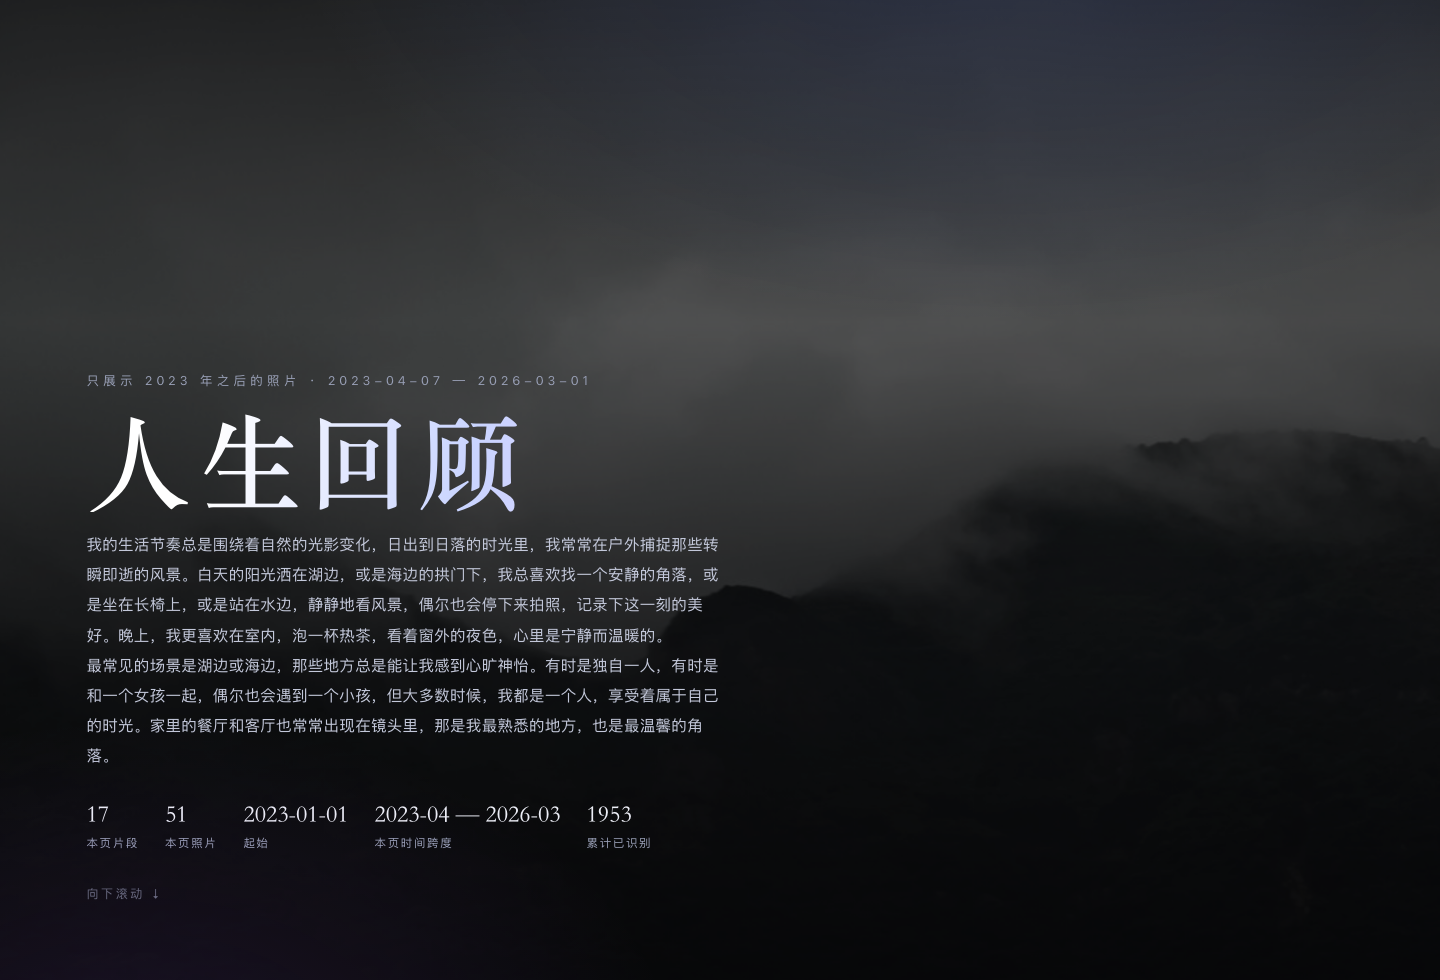
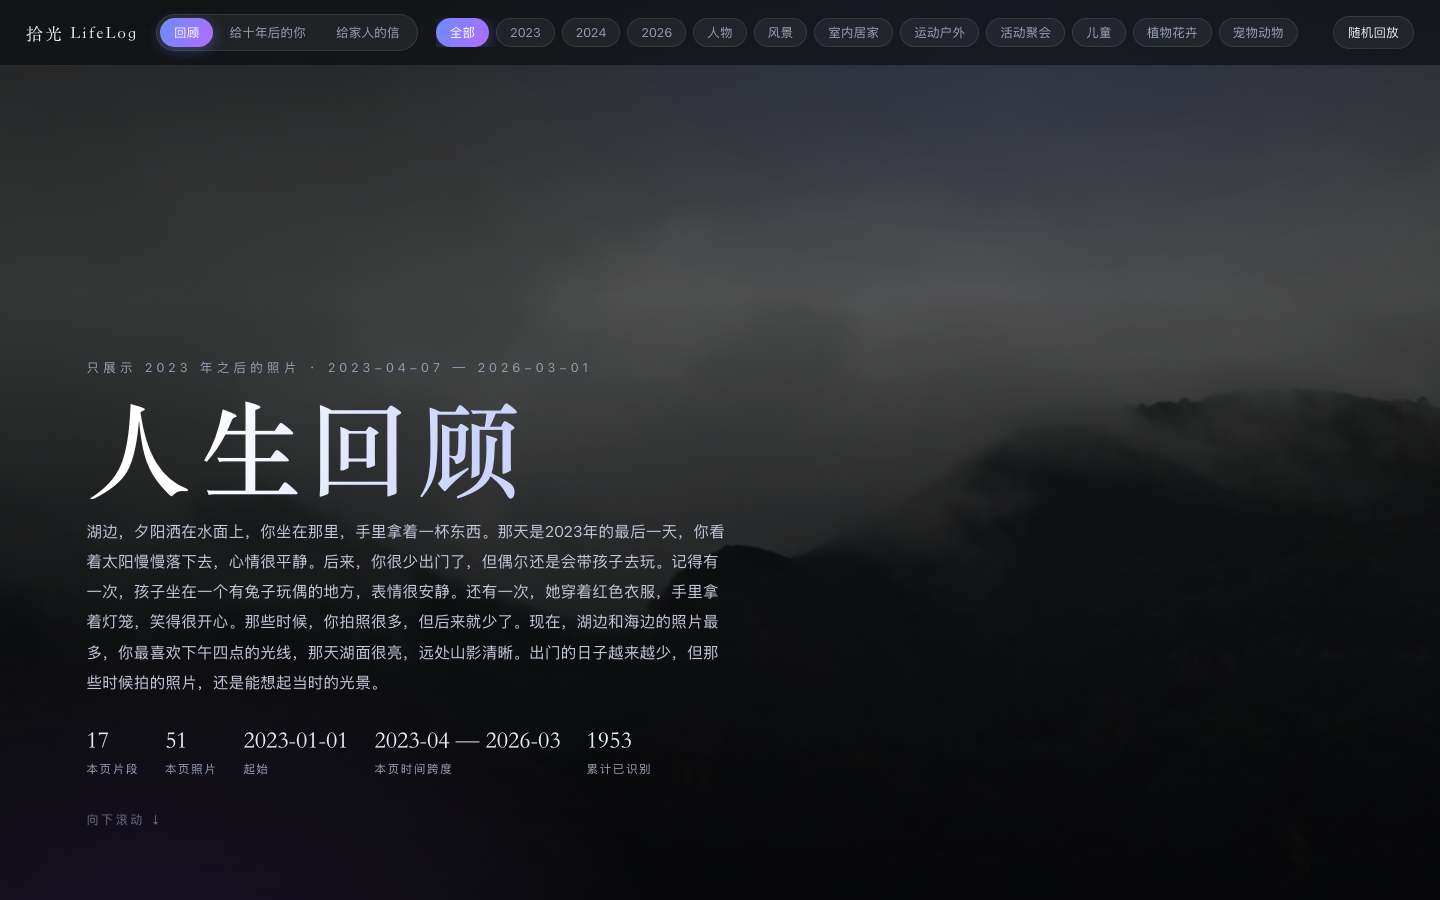
feat: 三种叙事视角 + 顶部切换器

diff --git a/lifelog/assets/review.html b/lifelog/assets/review.html
@@ -22,11 +22,18 @@ a{color:inherit}
 #progress{position:fixed;left:0;top:0;height:2px;width:0;z-index:60;
   background:linear-gradient(90deg,var(--a1),var(--a2));box-shadow:0 0 12px rgba(108,140,255,.8)}
 .topbar{position:fixed;top:0;left:0;right:0;z-index:50;display:flex;align-items:center;gap:18px;
-  padding:14px 26px;background:rgba(8,9,13,.55);backdrop-filter:blur(14px);
-  border-bottom:1px solid var(--line);opacity:0;transform:translateY(-12px);
+  padding:14px 26px;background:rgba(8,9,13,.62);backdrop-filter:blur(16px);
+  border-bottom:1px solid var(--line);opacity:1;transform:none;
   transition:.5s cubic-bezier(.2,.7,.2,1)}
-.topbar.show{opacity:1;transform:none}
 .brand{font-family:var(--serif);font-size:17px;letter-spacing:2px;white-space:nowrap}
+
+.seg{display:flex;gap:2px;padding:3px;border-radius:999px;background:rgba(255,255,255,.06);
+  border:1px solid var(--line);flex:0 0 auto}
+.seg button{border:0;background:transparent;color:var(--muted);font-size:12.5px;cursor:pointer;
+  padding:6px 14px;border-radius:999px;transition:.25s;font-family:var(--sans);white-space:nowrap}
+.seg button:hover{color:var(--ink)}
+.seg button.on{background:linear-gradient(120deg,var(--a1),var(--a2));color:#fff;
+  box-shadow:0 3px 14px rgba(108,140,255,.35)}
 .chips{display:flex;gap:7px;overflow-x:auto;flex:1;scrollbar-width:none}
 .chips::-webkit-scrollbar{display:none}
 .chip{border:1px solid var(--line);background:rgba(255,255,255,.05);color:var(--muted);
@@ -39,7 +46,7 @@ a{color:inherit}
   padding:7px 14px;border-radius:999px;font-size:12.5px;cursor:pointer;white-space:nowrap;
   transition:.22s;font-family:var(--sans)}
 .ghost:hover{background:rgba(255,255,255,.12)}
-.hero{position:relative;min-height:100vh;display:flex;align-items:flex-end;
+.hero{position:relative;min-height:100vh;padding-top:64px;display:flex;align-items:flex-end;
   padding:0 6vw 8vh;overflow:hidden}
 .hero-bg{position:absolute;inset:-4%;background-size:cover;background-position:center;
   filter:saturate(.85) brightness(.55);transform:scale(1.06);animation:drift 26s ease-in-out infinite alternate}
@@ -166,6 +173,7 @@ footer{padding:60px 6vw 90px;color:var(--muted);font-size:12.5px;border-top:1px 
 <div id="progress"></div>
 <header class="topbar" id="topbar">
   <div class="brand">拾光 LifeLog</div>
+  <div class="seg" id="seg"></div>
   <div class="chips" id="chips"></div>
   <button class="ghost" id="shuffle">随机回放</button>
 </header>
@@ -182,8 +190,8 @@ footer{padding:60px 6vw 90px;color:var(--muted);font-size:12.5px;border-top:1px 
 </section>
 
 <section class="story-block">
-  <div class="kicker">Recap</div>
-  <h2>你的这些年</h2>
+  <div class="kicker" id="storyKicker">Recap</div>
+  <h2 id="storyTitle">你的这些年</h2>
   <div class="story-prose" id="story"></div>
 </section>
 
@@ -242,6 +250,9 @@ window.addEventListener("error", function(e){ document.title = "ERR: " + e.messa
     heroStats: document.getElementById("heroStats"),
     footMeta: document.getElementById("footMeta"),
     story: document.getElementById("story"),
+    storyTitle: document.getElementById("storyTitle"),
+    storyKicker: document.getElementById("storyKicker"),
+    seg: document.getElementById("seg"),
     cards: document.getElementById("cards"),
     flow: document.getElementById("flow"),
     lb: document.getElementById("lightbox"),
@@ -461,14 +472,51 @@ window.addEventListener("error", function(e){ document.title = "ERR: " + e.messa
     var h = document.documentElement.scrollHeight - window.innerHeight;
     var p = h > 0 ? (window.scrollY / h) * 100 : 0;
     els.progress.style.width = p + "%";
-    if (window.scrollY > window.innerHeight * 0.55) { els.topbar.classList.add("show"); }
-    else { els.topbar.classList.remove("show"); }
+    els.topbar.classList.add("show");
   }, {passive:true});
 
   document.documentElement.classList.add("js");
+  var currentVoice = 0;
+
+  function applyVoice(index){
+    var voices = DATA.voices || [];
+    if (!voices.length) {
+      els.story.textContent = DATA.story || DATA.full_summary || "";
+      return;
+    }
+    currentVoice = (index + voices.length) % voices.length;
+    var voice = voices[currentVoice];
+    els.story.textContent = voice.text;
+    els.storyTitle.textContent = voice.title;
+    els.storyKicker.textContent = voice.kicker;
+    els.heroLede.textContent = voice.lead;
+    els.seg.querySelectorAll("button").forEach(function(b, i){
+      b.classList.toggle("on", i === currentVoice);
+    });
+  }
+
+  function buildSeg(){
+    var voices = DATA.voices || [];
+    els.seg.innerHTML = "";
+    voices.forEach(function(v, i){
+      var b = document.createElement("button");
+      b.textContent = v.label;
+      b.className = i === 0 ? "on" : "";
+      b.addEventListener("click", function(){ applyVoice(i); });
+      els.seg.appendChild(b);
+    });
+  }
+
   function fillStory(){
-    var text = DATA.story || DATA.full_summary || "";
-    els.story.textContent = text;
+    var m = /[?&]voice=([a-z]+)/.exec(window.location.search);
+    var idx = 0;
+    if (m) {
+      var voices = DATA.voices || [];
+      for (var i = 0; i < voices.length; i++) {
+        if (voices[i].id === m[1]) { idx = i; }
+      }
+    }
+    applyVoice(idx);
   }
 
   function fillCards(){
@@ -495,6 +543,7 @@ window.addEventListener("error", function(e){ document.title = "ERR: " + e.messa
 
   photos = allPhotos();
   fillHero();
+  buildSeg();
   fillStory();
   fillCards();
   fillFlow();

diff --git a/lifelog/story.py b/lifelog/story.py
@@ -211,6 +211,139 @@ INSIGHT_PROMPT = (
     + "可直接引用的数字：" + chr(10) + "{facts}"
 )
 
+VOICES = {
+    "diary": {
+        "title": "你的这些年",
+        "kicker": "Recap",
+        "label": "回顾",
+        "prompt": (
+            "你在替一个人写他相册的「人生回顾」。用**第二人称**（对读者说「你」），"
+            "像朋友翻完这批照片后当面跟你说话。"
+            "只能围绕下面「素材」里的瞬间展开，挑 2-3 个讲，**不要把素材罗列一遍**，"
+            "也不要另找素材。"
+            + chr(10) + chr(10)
+            + "素材：" + chr(10) + "{beats}"
+            + chr(10) + chr(10)
+            + "这些数字只用于核对（不要逐条报出来）：" + chr(10) + "{facts}"
+        ),
+    },
+    "future": {
+        "title": "给十年后的你",
+        "kicker": "In Ten Years",
+        "label": "给十年后的你",
+        "prompt": (
+            "你要写一段文字，给**十年后的自己**看：以后翻这本相册的人，"
+            "会想知道现在的自己是怎么活的。用**第二人称**，把「十年后的你」当作读者。"
+            "只围绕下面「素材」里的瞬间展开，挑 2-3 个讲，不要罗列。"
+            "用陈述句写，像在跟未来的自己交代这几年的情况；"
+            "不要抒情、不要想象未来的画面、不要励志、不要教训人。"
+            + chr(10) + chr(10)
+            + "素材：" + chr(10) + "{beats}"
+            + chr(10) + chr(10)
+            + "这些数字只用于核对（不要逐条报出来）：" + chr(10) + "{facts}"
+        ),
+    },
+    "family": {
+        "title": "给家人的一封信",
+        "kicker": "To Family",
+        "label": "给家人的信",
+        "prompt": (
+            "你要写一封短信给家里人，收信人是那个陪你出门、带孩子的人。"
+            "用**第一人称**（写信的人是你）。只围绕下面「素材」里的瞬间展开，"
+            "挑 1-2 个讲，像随口交代一句近况。"
+            "不要歌颂亲情，不要写称呼，不要抒情；"
+            "只允许使用素材里出现过的日期，不能出现「今天」「昨天」这类没有依据的时间；"
+            "结尾停在一件具体的小事上。"
+            + chr(10) + chr(10)
+            + "素材：" + chr(10) + "{beats}"
+            + chr(10) + chr(10)
+            + "这些数字只用于核对（不要逐条报出来）：" + chr(10) + "{facts}"
+        ),
+    },
+}
+
+COMMON_RULES = (
+    "写作要求："
+    "1. 开头不要报统计数字，先给一个画面；"
+    "1b. 用平实的说法，像在说话，不要比喻、不要写得像散文诗"
+    "（禁止「像…一样」「你看着时间流走」这类句子）；"
+    "1c. 不要用「你拍了 X，也拍了 Y」这种排比句式；"
+    "2. 不要罗列素材，不要逐条引用清单里的数字，数字最多出现两处，且要嵌在句子里；"
+    "3. 短句为主，每句不超过二十来个字，一段 2-4 句；"
+    "4. 克制：可以有情绪，但不煽情，不用「岁月静好」「时光温柔」「治愈」「释怀」这类词，"
+    "不堆形容词；"
+    "5. 不要在结尾升华或总结，不要写「这就是生活」这类收尾；"
+    "6. 只写正文，不要标题、不要 Markdown、不要列表；"
+    "7. 长度：回顾 3-5 段，给十年后的你 2-4 段，给家人的信 1-2 段，每段都要短。"
+    + chr(10) + chr(10)
+)
+
+
+def build_beats(since_day: str | None = None) -> list[dict]:
+    """挑出几个具体瞬间当素材：模型围着画面写，而不是围着数字写。"""
+    db.init_db()
+    with db.session() as con:
+        query = ("SELECT a.day, a.taken_at, c.caption, c.people, c.place, c.activity, c.tags "
+                 "FROM assets a JOIN captions c ON c.asset_id = a.id "
+                 "WHERE c.status='ok' AND c.prompt_version='describe-v1'")
+        params: list = []
+        if since_day:
+            query += " AND a.day >= ?"
+            params.append(since_day)
+        rows = con.execute(query + " ORDER BY a.day, a.taken_at", params).fetchall()
+
+    by_day: dict[str, list] = {}
+    for row in rows:
+        by_day.setdefault(row["day"], []).append(row)
+
+    def kid_row(day_rows):
+        for row in day_rows:
+            people = row["people"] or ""
+            tags = db.jload(row["tags"])
+            if any(w in people for w in KID_WORDS) or "儿童" in tags:
+                return row
+        return None
+
+    def outdoor_row(day_rows):
+        for row in day_rows:
+            if any(t in db.jload(row["tags"]) for t in OUTDOOR_TAGS):
+                return row
+        return None
+
+    beats: list[dict] = []
+    if by_day:
+        busiest = max(by_day.items(), key=lambda kv: len(kv[1]))
+        row = outdoor_row(busiest[1]) or busiest[1][0]
+        beats.append({"kind": "最密集的一天",
+                      "text": f"{busiest[0]} 这一天你拍了 {len(busiest[1])} 张。"
+                              f"其中一张写着：{row['caption']}"})
+        kid_days = [d for d in sorted(by_day) if kid_row(by_day[d])]
+        if kid_days:
+            last = kid_days[-1]
+            row = kid_row(by_day[last])
+            beats.append({"kind": "最近一次带孩子出门",
+                          "text": f"{last}，{row['caption']}"})
+            first = kid_days[0]
+            row = kid_row(by_day[first])
+            beats.append({"kind": "最早一次带孩子出门",
+                          "text": f"{first}，{row['caption']}"})
+        outdoor_days = [d for d in sorted(by_day) if outdoor_row(by_day[d])]
+        if outdoor_days:
+            mid = outdoor_days[len(outdoor_days) // 2]
+            row = outdoor_row(by_day[mid])
+            beats.append({"kind": "一个普通的外出日",
+                          "text": f"{mid}，{row['caption']}"})
+        late = [r for r in rows if (r["taken_at"] or "")[11:13] == "16"]
+        if late:
+            row = late[len(late) // 3]
+            beats.append({"kind": "下午四点的光线",
+                          "text": f"{row['day']} {row['taken_at'][11:16]}，{row['caption']}"})
+    return beats
+
+
+def render_beats(beats: list[dict]) -> str:
+    return chr(10).join(f"- 【{b['kind']}】{b['text']}" for b in beats)
+
 
 def _store(con, key: str, value: str) -> None:
     con.execute(
@@ -221,19 +354,29 @@ def _store(con, key: str, value: str) -> None:
     )
 
 
-def generate_story(model_key: str = "minicpm-v-4.5-8b", since_day: str | None = None) -> str:
-    """把事实清单写成第二人称日记式回顾。"""
+def generate_story(model_key: str = "minicpm-v-4.5-8b", since_day: str | None = None,
+                   voice: str = "diary", all_voices: bool = False) -> dict:
+    """把素材写成指定视角的叙事（默认回顾；all_voices=True 一次生成三种）。"""
     from . import models
 
-    facts = build_facts(since_day if since_day is not None else config.REVIEW_SINCE_DAY)
-    text = render_facts(facts)
+    since = since_day if since_day is not None else config.REVIEW_SINCE_DAY
+    facts = render_facts(build_facts(since))
+    beats = render_beats(build_beats(since))
+    targets = list(VOICES) if all_voices else [voice]
+    out_map = {}
     with models.Server(model_key) as server:
-        out = server.chat(STORY_PROMPT.format(facts=text), max_tokens=1600,
-                          temperature=0.6, timeout=600)
-    out = out.strip()
-    with db.session() as con:
-        _store(con, "story", out)
-    return out
+        for key in targets:
+            spec = VOICES[key]
+            prompt = spec["prompt"] + COMMON_RULES
+            out = server.chat(prompt.format(beats=beats, facts=facts),
+                              max_tokens=1100, temperature=0.55, timeout=600).strip()
+            out_map[key] = out
+            with db.session() as con:
+                _store(con, f"story_{key}", out)
+            if key == "diary":
+                with db.session() as con:
+                    _store(con, "story", out)
+    return out_map
 
 
 def generate_insight(model_key: str = "minicpm-v-4.5-8b", since_day: str | None = None) -> str:

diff --git a/lifelog/cli.py b/lifelog/cli.py
@@ -81,7 +81,12 @@ def cmd_sync(args) -> int:
 
 def cmd_story(args) -> int:
     from . import story
-    print(story.generate_story(args.model))
+    result = story.generate_story(args.model, voice=args.voice, all_voices=args.all_voices)
+    for key, text in result.items():
+        if len(result) > 1:
+            print("=" * 20, story.VOICES[key]["title"], "=" * 20)
+        print(text)
+        print()
     return 0
 
 
@@ -203,8 +208,10 @@ def build_parser() -> argparse.ArgumentParser:
     p.add_argument("--limit", type=int)
     p.set_defaults(func=cmd_sync)
 
-    p = sub.add_parser("story", help="生成日记式人生回顾（第二人称、事实入文）")
+    p = sub.add_parser("story", help="生成人生回顾（三种视角：回顾/给十年后的你/给家人的信）")
     p.add_argument("--model", default="minicpm-v-4.5-8b")
+    p.add_argument("--voice", default="diary", choices=["diary", "future", "family"])
+    p.add_argument("--all-voices", dest="all_voices", action="store_true", help="一次生成三种视角")
     p.set_defaults(func=cmd_story)
 
     p = sub.add_parser("insight", help="生成拍摄偏好与性格分析")

diff --git a/lifelog/review.py b/lifelog/review.py
@@ -81,6 +81,19 @@ def build_data(photos_per_event: int | None = None) -> dict:
     meta["cover"] = _cover(flat)
     stored = db_profile()
     story_text = stored.get("story", "")
+    voices = []
+    for key, spec in story.VOICES.items():
+        text = stored.get(f"story_{key}", "") or (story_text if key == "diary" else "")
+        if not text:
+            continue
+        voices.append({
+            "id": key,
+            "title": spec["title"],
+            "kicker": spec["kicker"],
+            "label": spec["label"],
+            "text": text,
+            "lead": chr(10).join([p for p in text.split(chr(10)) if p.strip()][:2]),
+        })
     insight_text = stored.get("insight", "")
     cards = []
     for chunk in insight_text.splitlines():
@@ -98,6 +111,7 @@ def build_data(photos_per_event: int | None = None) -> dict:
         "summary": chr(10).join(paragraphs[:2]) if paragraphs else "",
         "full_summary": lede,
         "story": story_text,
+        "voices": voices,
         "insight": insight_text,
         "insight_cards": cards,
         "facts": story.render_facts(story.build_facts(config.REVIEW_SINCE_DAY)),

diff --git a/README.md b/README.md
@@ -33,6 +33,12 @@
 
 同一批照片，除了客观统计，还能长出两段有人的文字：
 
+- **三种叙事视角**（`lifelog story --all-voices`，页面顶部可切换）：
+  - `回顾`：像朋友翻完相册当面跟你说话，围绕几个具体瞬间展开；
+  - `给十年后的你`：用陈述句交代这几年怎么活的，不励志、不抒情；
+  - `给家人的信`：第一人称短信，只讲事实，结尾停在一件小事上。
+  三个视角共用同一套「素材卡」（程序先挑出具体瞬间和数字），写作约束统一为
+  短句、克制、不比喻、不升华、不罗列。
 - **人生回顾**（`lifelog story`）：先把可讲的计数事实算出来（今年出门几天、第几次带孩子、比上年多还是少、独处占比、最常出动的钟点），
   再交给 MiniCPM-V-4.5-8B 写成第二人称的日记，数字全部原样嵌进句子。
 - **自我画像**（`lifelog insight`）：四段式分析——你最爱拍什么、你的性格底色、

diff --git a/docs/报名材料.md b/docs/报名材料.md
@@ -13,6 +13,8 @@
 - 截图（可直接放投稿材料）：
   - `docs/screenshots/review-hero.png`（封面）
   - `docs/screenshots/review-story.png`（人生回顾：日记式叙事，数字嵌在句子里）
+  - `docs/screenshots/review-voice-future.png`（叙事视角之一：给十年后的你）
+  - `docs/screenshots/review-voice-family.png`（叙事视角之一：给家人的信）
   - `docs/screenshots/review-insight.png`（自我画像：拍摄偏好 / 性格底色 / 没拍的部分 / 三条建议）
   - `docs/screenshots/review-timeline.png`（时间线）
   - `docs/screenshots/review-lightbox.png`（照片灯箱：原图 + MiniCPM 描述 + 标签）
